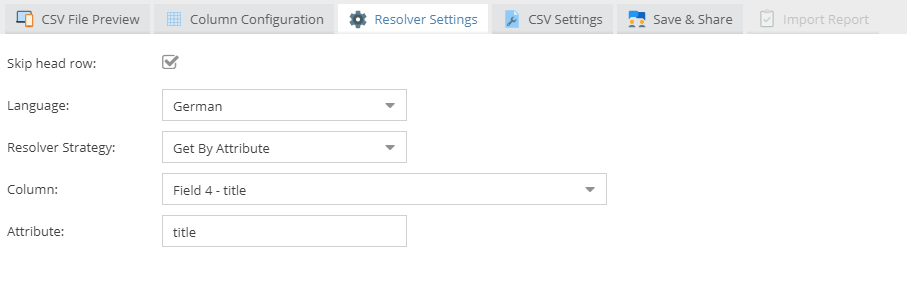
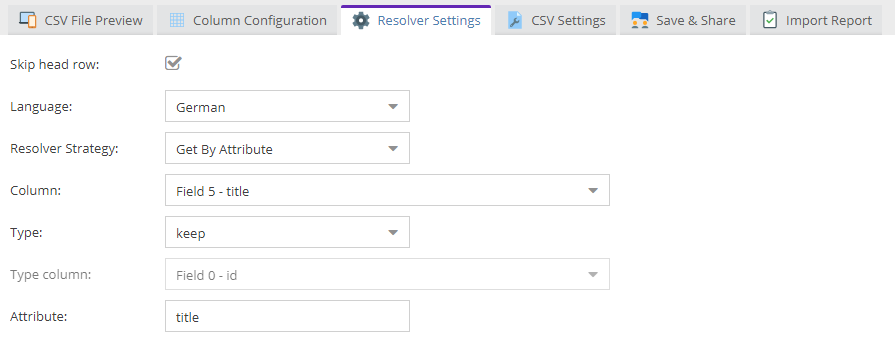
[CSV Import] Unable to import object variants #2640

diff --git a/web/pimcore/static6/js/pimcore/object/helpers/import/resolverSettingsTab.js b/web/pimcore/static6/js/pimcore/object/helpers/import/resolverSettingsTab.js
@@ -31,7 +31,8 @@ pimcore.object.helpers.import.resolverSettingsTab = Class.create({
 
         var data = this.config;
         var sourceFields = [];
-        for (i = 0; i < data.cols - 1; i++) {
+        var i;
+        for (i = 0; i < data.cols; i++) {
             var text = t("field") + " " + i;
             if (dataPreview && dataPreview["field_" + i]) {
                 text = text  + " - " + dataPreview["field_" + i];
@@ -130,6 +131,7 @@ pimcore.object.helpers.import.resolverSettingsTab = Class.create({
             }
         );
 
+
         this.skipHeaderRow = new Ext.form.field.Checkbox(
             {
                 fieldLabel: t("skipheadrow"),
@@ -197,7 +199,64 @@ pimcore.object.helpers.import.resolverSettingsTab = Class.create({
         this.skipHeaderRow.setValue(value);
     },
 
+    addObjectTypeOptions: function() {
+        var typesData = [];
+
+        typesData.push(["keep", t('keep')]);
+        typesData.push(["object", t('object')]);
+        typesData.push(["variant", t('variant')]);
+        typesData.push(["dynamic", t('dynamic')]);
+
+        var typesStore = new Ext.data.ArrayStore({
+            data: typesData,
+            fields: ['type', 'name']
+        });
+
+        this.objectTypeOptions = new Ext.form.field.ComboBox(
+            {
+                name: "objectType",
+                store: typesStore,
+                mode: "local",
+                triggerAction: "all",
+                fieldLabel: t("type"),
+                value: this.config.resolverSettings.objectType ? this.config.resolverSettings.objectType : 'keep',
+                valueField: 'type',
+                displayField: 'name',
+                listeners: {
+                    change: function(field, newValue, oldValue) {
+                        if (newValue == "dynamic") {
+                            this.objectTypeColumn.enable();
+                        } else {
+                            this.objectTypeColumn.disable();
+                        }
+                    }.bind(this)
+                }
+            }
+        );
+
+        var mappingStore = this.getMappingStore();
+
+        this.objectTypeColumn = new Ext.form.field.ComboBox(
+            {
+                xtype: "combo",
+                name: "columnObjectType",
+                store: mappingStore,
+                mode: "local",
+                triggerAction: "all",
+                fieldLabel: t("type_column"),
+                width: 600,
+                disabled: this.objectTypeOptions.getValue() != "dynamic",
+                value: this.config.resolverSettings.columnObjectType ? this.config.resolverSettings.columnObjectType : 0
+            })
+
+        this.detailedSettingsPanel.add(this.objectTypeOptions);
+        this.detailedSettingsPanel.add(this.objectTypeColumn);
+
+
+    },
+
     addIdOptions: function () {
+        this.addObjectTypeOptions();
 
     },
 
@@ -222,6 +281,8 @@ pimcore.object.helpers.import.resolverSettingsTab = Class.create({
     },
 
     addFilenameOptions: function () {
+
+        this.addObjectTypeOptions();
 
         this.detailedSettingsPanel.add([
                 {
@@ -255,6 +316,9 @@ pimcore.object.helpers.import.resolverSettingsTab = Class.create({
 
     addFullpathOptions: function () {
 
+
+        this.addObjectTypeOptions();
+
         this.detailedSettingsPanel.add([
                 {
                     xtype: "checkbox",
@@ -279,6 +343,9 @@ pimcore.object.helpers.import.resolverSettingsTab = Class.create({
     },
 
     addGetByOptions: function () {
+
+        this.addObjectTypeOptions();
+
         this.detailedSettingsPanel.add([
                 {
                     xtype: "textfield",

diff --git a/pimcore/lib/Pimcore/DataObject/Import/Resolver/Fullpath.php b/pimcore/lib/Pimcore/DataObject/Import/Resolver/Fullpath.php
@@ -62,7 +62,11 @@ class Fullpath extends AbstractResolver
             $object->setParent($parent);
             $object->setPublished(1);
         } else {
-            $parent = $object->getParent();
+            if ($object) {
+                $parent = $object->getParent();
+            } else {
+                throw new \Exception('failed to resolve object ' . $fullpath);
+            }
         }
 
         if (!$parent->isAllowed('create')) {
@@ -72,6 +76,8 @@ class Fullpath extends AbstractResolver
         if (!$object) {
             throw new \Exception('failed to resolve object ' . $fullpath);
         }
+
+        $this->setObjectType($config, $object, $rowData);
 
         return $object;
     }

diff --git a/pimcore/lib/Pimcore/DataObject/Import/Resolver/AbstractResolver.php b/pimcore/lib/Pimcore/DataObject/Import/Resolver/AbstractResolver.php
@@ -23,4 +23,19 @@ abstract class AbstractResolver implements ResolverInterface
     {
         return $config->resolverSettings->column;
     }
+
+    protected function setObjectType($config, $object, $rowData)
+    {
+        $objectType = $config->resolverSettings->objectType;
+
+        if ($objectType == 'dynamic') {
+            $typeColumn = $config->resolverSettings->columnObjectType;
+            $objectType = $rowData[$typeColumn];
+            $object->setType($objectType);
+        } elseif ($objectType != 'keep') {
+            $object->setType($objectType);
+        }
+
+        return $object;
+    }
 }

diff --git a/pimcore/lib/Pimcore/DataObject/Import/Resolver/Id.php b/pimcore/lib/Pimcore/DataObject/Import/Resolver/Id.php
@@ -24,6 +24,7 @@ class Id extends AbstractResolver
 {
     public function resolve(\stdClass $config, int $parentId, array $rowData)
     {
+
         $idColumn = $this->getIdColumn($config);
         if (null === $idColumn) {
             throw new \InvalidArgumentException('ID column is not set');
@@ -48,6 +49,8 @@ class Id extends AbstractResolver
             throw new \Exception('no permission to overwrite object with id ' . $id);
         }
 
+
+        $this->setObjectType($config, $object, $rowData);
         return $object;
     }
 }

diff --git a/pimcore/lib/Pimcore/DataObject/Import/Resolver/Filename.php b/pimcore/lib/Pimcore/DataObject/Import/Resolver/Filename.php
@@ -94,6 +94,8 @@ class Filename extends AbstractResolver
             throw new \Exception('failed to resolve object key ' . $objectKey);
         }
 
+        $this->setObjectType($config, $object, $rowData);
+
         return $object;
     }
 

diff --git a/pimcore/lib/Pimcore/DataObject/Import/Resolver/GetBy.php b/pimcore/lib/Pimcore/DataObject/Import/Resolver/GetBy.php
@@ -68,6 +68,7 @@ class GetBy extends AbstractResolver
                 }
             }
 
+            $this->setObjectType($config, $object, $rowData);
             return $object;
         }
 

diff --git a/doc/User_Documentation/01_Objects/02_CSV_Import/01_Resolver/README.md b/doc/User_Documentation/01_Objects/02_CSV_Import/01_Resolver/README.md
@@ -1,8 +1,12 @@
-# Resolver Strategies (Experimental)
+# Resolver Strategies
 
 > This is an experimental feature and subject to change without notice.
 
 A resolver strategy allows you to define how an existing object is matched based on the CSV data or how a new one gets created.
+
+> You can choose a specific object type (object or variant) via a dropdown menu or decide to keep the existing setting. Moreover, the 'dynamic' option allows you to specify a CSV object type column. 
+
+![Object Type](../../../img/csvimport/resolver_objecttype.png)
 
 ![Resolver](../../../img/csvimport/resolver.png)
 
